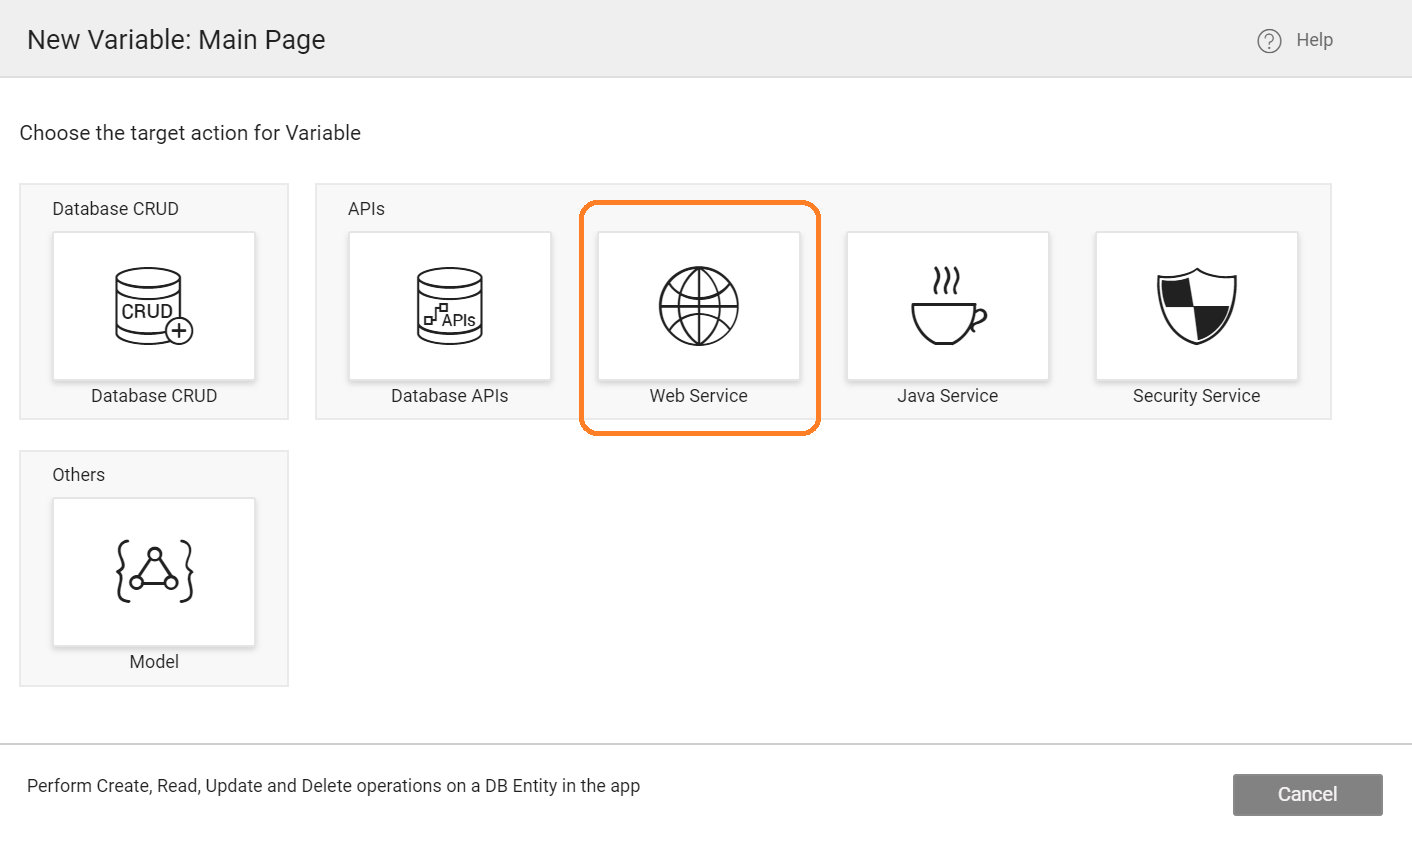
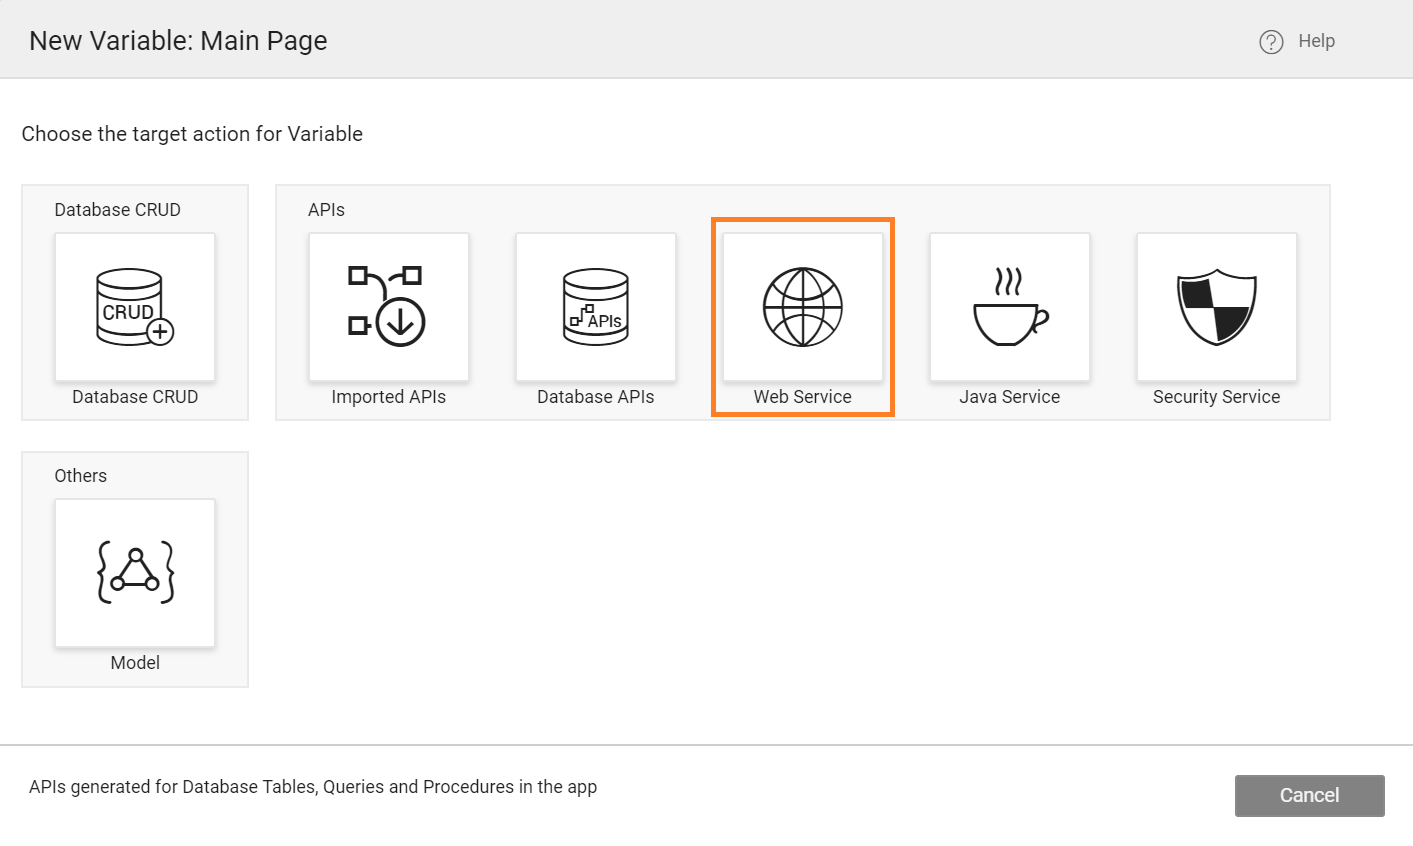
Service Variable and CRUD variable

diff --git a/learn/app-development/variables/websocket-variable.md b/learn/app-development/variables/websocket-variable.md
@@ -2,34 +2,41 @@
 title: "WebSocket Variable"
 id: ""
 ---
+---
 
 **WebSocket Variable** is the interface for the app developer to interact with a WebSocket Service imported into a WaveMaker app. The Variable has methods to interact with the target service like opening and closing the connection, sending and receiving messages to and from the server. It also holds the data to be sent to the service and the data received from the service.
 
-# Variable Lifecycle
+## Variable Lifecycle
 
 [![socket_lifecycle](/learn/assets/socket_lifecycle.png)](/learn/assets/socket_lifecycle.png)
 
-# Variable Creation
+## Variable Creation
 
-The **data source** for WebSocket Variables comes from a _Web Service_. We will see steps in creating a WebSocket variable here.
+The **data source** for WebSocket Variables comes from a **Web Service**. We will see steps in creating a WebSocket variable here.
 
-1. Select Variable option from the Create Menu [![](/learn/assets/var_sel.png)](/learn/assets/var_sel.png)
-2. Click New Variable from the Variable Dialog [![](/learn/assets/var_new.png)](/learn/assets/var_new.png)
-3. This will initiate Create Variable wizard with the following steps:
-    1. Since we are creating a variable to access WebSocket Web service APIs, select **Web Service **as the target action
-    2. Select:
-        - **Service** - service (already imported) name,
-        - **Name** - is set by default but can be modified
-        - **Owner** - the scope of the Variable being created. By default it is set to Page, you can change it to Application if you want this variable to be available across the app
-    3. Click **Done** to complete the variable creation process
-    4. You will be directed to the Variables page, with the new variable listed. As you can see:
-        1. a **Web Service** Variable is created,
-        2. with the default exposed method/selected method as target
-        3. the **properties tab** contains all the properties like _behavior_ and _dataset_ behavior. [Know more about properties](#properties).
-        4. the **data tab** will contain the fields serving as _input fields_ for the API
-        5. the **events** tab will contain the events that can be configured to trigger any action. [Know more about events](#events).
+1. Select Variable option from the Create Menu 
 
-# Properties
+[![](/learn/assets/var_sel.png)](/learn/assets/var_sel.png)
+
+2. Click New Variable from the Variable Dialog.
+
+[![](/learn/assets/var_new.png)](/learn/assets/var_new.png)
+
+3. For creating a variable to access WebSocket Web service APIs, select **Web Service** as the target action.
+4. In the next dialog, enter details for the following properties.
+    - **Service** - service (already imported) name,
+    - **Name** - is set by default but can be modified
+    - **Owner** - the scope of the Variable being created. By default it is set to Page, you can change it to Application if you want this variable to be available across the app.
+
+5. Click **Done** to complete the variable creation process
+6. You will be directed to the Variables page, with the new variable listed. As you can see:
+    - a **Web Service** Variable is created,
+    - with the default exposed method/selected method as target
+    - the **properties tab** contains all the properties like **behavior** and **dataset** behavior. [Know more about properties](#properties).
+    - the **data tab** will contain the fields serving as **input fields** for the API
+    - the **events** tab will contain the events that can be configured to trigger any action. [Know more about events](#events).
+
+## Properties
 
 WebSocket Variables are special variables that interact with the imported Web Socket service.
 
@@ -38,22 +45,12 @@ WebSocket Variables are special variables that interact with the imported Web S
 | **Service** |
 | Service | The WebSocket service targeted for the Variable. |
 | **Behavior** |
-| Connect on page load | If set to true, the variable will open the connection between the client and target WebSocket service on:
-- page load, for a page variable
-- app load, for an app variable.
-
- |
+| Connect on page load | If set to true, the variable will open the connection between the client and target WebSocket service on: <br> - page load, for a page variable <br> - app load, for an app variable. |
 | **Dataset** |
-| On New Data | A client once connected to a WebSocket service, can receive messages at any point in time and can receive a number of messages sequentially. This property determines what to do with data received from the variable.
-
-- _Refresh dataSet:_ dataSet will be updated with the data received.
-- _Add as last record:_ data will be appended at the end of dataSet. Latest data will be the last record in dataSet.
-- _Add as first record_: data will be prepended at the beginning of dataSet. Latest data will be the first record in dataSet.
-
-In latter two cases, dataSet will always be a list of messages. |
+| On New Data | A client once connected to a WebSocket service, can receive messages at any point in time and can receive many messages sequentially. This property determines what to do with data received from the variable. <br> - **Refresh dataSet**: dataSet will be updated with the data received. <br> - **Add as last record**: data will be appended at the end of dataSet. The latest data will be the last record in dataSet. <br> - **Add as first record**: data will be prepended at the beginning of dataSet. The latest data will be the first record in dataSet. <br> In the latter two cases, dataSet will always be a list of messages. |
 | Data Limit | Maximum number of messages that dataSet will hold. This is applicable only if “On New Data” property is set to other than “Refresh”. E.g. if set to 10, dataSet will hold a maximum of 10 message received from the server. When a new message is received, the first message is removed from the dataSet and the new one is appended to the end. Set it to 0 if no such upper limit is required. |
 
-# Events
+## Events
 
 Following events are triggered during the lifecycle of a WebSocket Variable. These events can be utilized by the end user application developer to customize the behavior of the app through more complex logic.
 
@@ -67,41 +64,52 @@ Following events are triggered during the lifecycle of a WebSocket Variable. The
 | on Before Close | Triggered before an existing connection(opened by the Variable) is closed. Returning false from here will abort the closing of the connection. |
 | **onClose** | Triggered after the connection is closed. |
 
-**NOTE**: WaveMaker supports binding multiple actions to a given event, i.e. a given event can trigger multiple actions.
+:::note
+WaveMaker supports binding multiple actions to a given event, i.e. a given event can trigger multiple actions.
+:::
 
-# Methods
+## Methods
 
 <table class="reference notranslate"><tbody><tr><td><a href="#open">open</a></td><td><a href="#send">send</a></td><td><a href="#close">close</a></td></tr></tbody></table>
 
-## open()
+### open()
 
-This method is used to open up the connection between the client and the WebSocket service. This is the starting point of the Variable lifecycle. _Parameters_: None _Return Value_: None
+This method is used to open up the connection between the client and the WebSocket service. This is the starting point of the Variable lifecycle. 
 
-_Usage:_
+**Parameters**: None 
+**Return Value**: None
+**Usage:**
 
+```js
 Page.Variables.webSocketVariable.open();
+```
 
-## send()
+### send()
 
 This method is used to send a message to the WebSocket service through the currently established connection.
 
-_Parameters_:
+**Parameters**:
 
 - **message**(object): the message to be sent to the service. If not provided, whatever is assigned to Variable RequestBody will be sent
 
-_Return Value_: None
+**Return Value**: None
 
-_Usage:_
+**Usage:**
 
+```js
 Page.Variables.webSocketVariable.send(message);
+```
 
-## close()
+### close()
 
 This method is used to close an existing WebSocket connection connected through the Variable.
 
-_Parameters_: None _Return Value_: None
+**Parameters**: None 
 
-_Usage:_
+**Return Value**: None
 
+**Usage:**
+
+```js
 Page.Variables.webSocketVariable.close();
-
+```

diff --git a/learn/app-development/variables/web-service.md b/learn/app-development/variables/web-service.md
@@ -5,7 +5,7 @@ sidebar_label: "Service Variable"
 ---
 ---
 
-For every service imported into the app, APIs exposed by the service can be accessed. A Variable needs to be created to invoke the service and store the results of that invocation. The Variable operations are restricted by the offerings of the underlying service.
+For every service imported into the app, the APIs exposed by the service can be accessed to perform many operations with it. A Variable needs to be created to invoke the service and store the results of that invocation. The Variable operations are restricted by the offerings of the underlying service.
 
 A comprehensive list of these APIs can be found from the [API Designer](/learn/assets/API_Access.png) after the import of the service.
 
@@ -13,13 +13,20 @@ A comprehensive list of these APIs can be found from the [API Designer](/learn/
 Since the service needs to be invoked to fetch the data, the widgets bound to these variables will display values only at run-time, not in Studio mode.
 :::
 
-## Variable Creation
+## How to Create a Service Variable
 
-The **data source** for these Variables comes from a _Web Service APIs_. 
+The **data source** for these Variables comes from imported REST and SOAP services. You can create a Service variable by using the following two approaches depending on the source of the data.
+
+1. Service Variable for **Web Service** (REST APIs, SOAP, WebSocket)
+2. Service Variable for **Imported APIs** (Swagger/Open API)
 
 :::important
-Though the process for creating a variable for WebSocket Service is the same as below, properties and methods are different. For more information, see [WebSocket Variable](/learn/app-development/variables/websocket-variable/).
+The process for creating a variable for WebSocket Service is the same as below, however, the properties and methods are different. For more information, see [WebSocket Variable](/learn/app-development/variables/websocket-variable/).
 :::
+
+![select web services](/learn/assets/select-service-variable.png)
+
+### Service Variable for Web Services
 
 1. Select **Variable** from the workspace toolbar.
 
@@ -29,19 +36,43 @@ Though the process for creating a variable for WebSocket Service is the same as 
 
 ![new variable](/learn/assets/var_new.png)
 
-3. Select **Web Services** as *a target action for Variable*.
+3. Select **Web Services** as a target action for Variable.
 
 ![select web services](/learn/assets/select-web-services.PNG)
 
+4. In the new Variable dialog, configure the properties for the variable.
+
 :::important
-The data source for the Variable comes from imported Services.
+The data source for the Variable comes from the imported Services.
 :::
 
-![swagger variable](/learn/assets/swagger-variable.png)
-
-### Steps to Create Variable in Variable Wizard
+![web service variable](/learn/assets/web-service-variable.png)
 
 - **Service**: Select the service name from imported services.
+- **Name**: Set by default, but you can modify it.
+- **Owner**: The scope of the Variable. Page is the default option. You can choose Application to make it available across the app.
+- Click **Done** to complete the variable creation process.
+
+### Service Variable for Imported APIs
+
+1. Select **Variable** from the workspace toolbar.
+
+![variable creation](/learn/assets/var_sel.png)
+
+2. Click **New Variable** from the Variable Dialog.
+
+![new variable](/learn/assets/var_new.png)
+
+3. Select **Imported APIs** as a target action for Variable.
+
+![select imported api](/learn/assets/select-imported-api.png)
+
+4. In the new Variable dialog, configure the properties for the variable.
+
+![swagger variable](/learn/assets/other-endpoints-variable.png)
+
+- **Service**: Select the [Imported Service](/learn/app-development/services/api-designer/import-rest-apis-swagger#importing-swagger).
+- **Type**: Select the **Type** as `Other Endpoints`.
 - **Method**: If the API exposes multiple services, you can choose from the list.
 - **Name**: Set by default, but you can modify it.
 - **Owner**: The scope of the Variable. Page is the default option. You can choose Application to make it available across the app.

diff --git a/learn/app-development/variables/crud-variable.md b/learn/app-development/variables/crud-variable.md
@@ -5,9 +5,9 @@ sidebar_label: "CRUD Variable"
 ---
 ---
 
-For every service imported into the app, APIs exposed by the service can be accessed. To create a CRUD variable, you need to drag-and-drop a widget to invoke the service and store the results of that invocation. The Variable operations are restricted by the offerings of the underlying service.
+For every service imported into the app, the APIs exposed by the service can be accessed to perform many operations with it. To create a CRUD variable, you can create a CRUD variable or drag-and-drop a widget to invoke the service and store the results of that invocation. The Variable operations are restricted by the offerings of the underlying service.
 
-A comprehensive list of these APIs can be found from the [API Designer](/learn/assets/API_Access.png) after the import of the service. 
+A comprehensive list of these APIs can be found from the [API Designer](/learn/assets/API_Access.png) after the import of the service.
 
 :::note
 Since the service needs to be invoked to fetch the data, the widgets bound to these variables will display values only at run-time, not in Studio mode.
@@ -19,9 +19,41 @@ Since the service needs to be invoked to fetch the data, the widgets bound to th
 
 **Mobile**: List with Form
 
-## Variable Creation
+## How to Create a CRUD Variable
 
-Drag and drop a widget on the canvas. For example, in the following image, a Datatable widget is used. CRUD variable supports 
+You can create a CRUD variable by using the following two approaches.
+
+1. Create a CRUD variable from a Variable Dialog.
+2. Create a CRUD variable by drag-n-drop of the [supported widget](#supported-widgets).
+
+### Via Variable Dialog
+
+1. Select **Variable** from the workspace toolbar.
+
+![variable creation](/learn/assets/var_sel.png)
+
+2. Click **New Variable** from the Variable Dialog.
+
+![new variable](/learn/assets/var_new.png)
+
+3. Select **Imported APIs** as a target action for the Variable.
+
+![select imported api](/learn/assets/select-imported-api.png)
+
+4. In the new Variable dialog, configure the properties for the variable.
+
+![create crud variable](/learn/assets/create-crud-variable.png)
+
+- **Service**: Select the [Imported Service](/learn/app-development/services/api-designer/import-rest-apis-swagger#importing-swagger).
+- **Type**: Select the **Type** as `Entities (CRUD)`.
+- **Entity**: Select the entity from the dropdown. Create, Read, Update, and Delete methods group into a single entity. For more information, see [Entity and Endpoints](/learn/app-development/services/api-designer/import-rest-apis-swagger#entity-and-endpoints).
+- **Name**: Set by default, but you can modify it.
+- **Owner**: The scope of the Variable. **Page** is the default option. You can choose **Application** to make the variable available across the app.
+- Click **Done** to complete the variable creation process.
+
+### Via Drag and Drop of Widget
+
+Drag and drop the [supported-widget](#supported-widgets) on the canvas. For example, in the following image, a Datatable widget is used to create a CRUD variable.
 
 ![datatable crud variable](/learn/assets/datatable-crud-variable.png)
 
@@ -32,13 +64,13 @@ Drag and drop a widget on the canvas. For example, in the following image, a Dat
 - Select **Form As Dialog** or **Form Below**, and Click **Next**.
 - Select pagination, click **Next**.
 - Configure table columns. These fields can also be configured using **Advanced Settings** from the **Properties** panel.
-- Select template. 
+- Select template.
 - Configure Form fields. These fields can also be configured using **Advanced Settings** from the **Properties** panel.
 - Click **Done**.
 
 For more information to create Datatable, see [Create a Datatable](/learn/app-development/widgets/datalive/datatable/data-table-basic-usage).
 
-### Edit Variable from Variable Dialog
+### Edit Variable
 
 ![variable creation](/learn/assets/var_sel.png)
 
